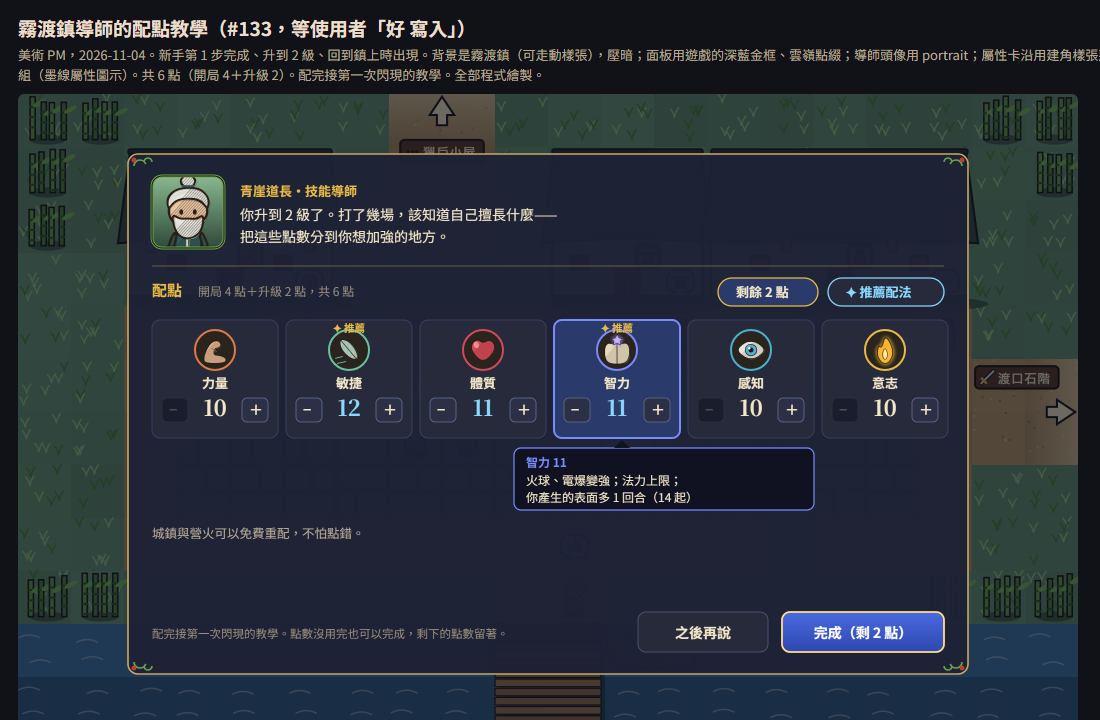
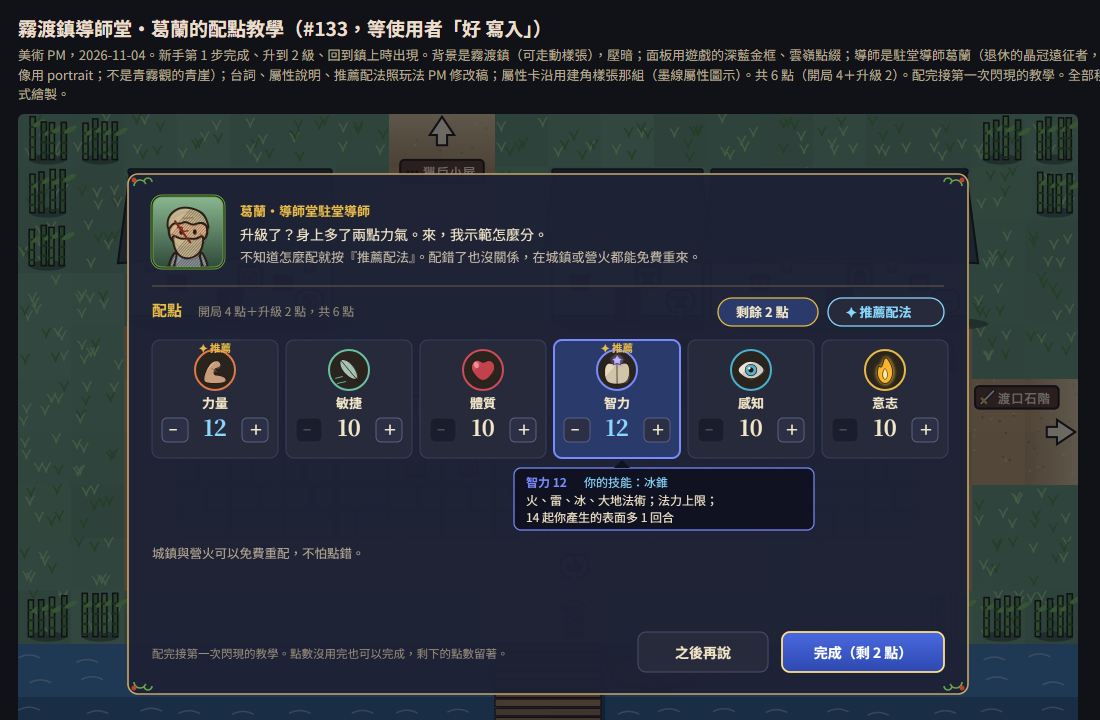
docs(art): mentor tutorial uses resident mentor Gran; final copy

diff --git a/docs/art/sample/mentor-attr.html b/docs/art/sample/mentor-attr.html
@@ -2,8 +2,8 @@
 <html lang="zh-Hant"><head><meta charset="utf-8"><title>導師配點教學</title>
 <style>body{margin:0;padding:14px 18px;background:#101218;color:#eadfcc;font-family:"Noto Sans TC","Microsoft JhengHei",sans-serif;width:1100px}h1{font-size:19px;margin:0 0 4px}.note{color:#b8ab96;font-size:13px;margin:0 0 10px;line-height:1.5}canvas{display:block;border-radius:6px}</style></head>
 <body>
-<h1>霧渡鎮導師的配點教學（#133，等使用者「好 寫入」）</h1>
-<p class="note">美術 PM，2026-11-04。新手第 1 步完成、升到 2 級、回到鎮上時出現。背景是霧渡鎮（可走動樣張），壓暗；面板用遊戲的深藍金框、雲嶺點綴；導師頭像用 portrait；屬性卡沿用建角樣張那組（墨線屬性圖示）。共 6 點（開局 4＋升級 2）。配完接第一次閃現的教學。全部程式繪製。</p>
+<h1>霧渡鎮導師堂・葛蘭的配點教學（#133，等使用者「好 寫入」）</h1>
+<p class="note">美術 PM，2026-11-04。新手第 1 步完成、升到 2 級、回到鎮上時出現。背景是霧渡鎮（可走動樣張），壓暗；面板用遊戲的深藍金框、雲嶺點綴；導師是駐堂導師葛蘭（退休的晶冠遠征者，頭像用 portrait；不是青霧觀的青崖）；台詞、屬性說明、推薦配法照玩法 PM 修改稿；屬性卡沿用建角樣張那組（墨線屬性圖示）。共 6 點（開局 4＋升級 2）。配完接第一次閃現的教學。全部程式繪製。</p>
 <canvas id="c"></canvas>
 <script src="raceArt.js"></script><script src="paperdoll.js"></script><script src="storyDoll.js"></script><script src="portraits.js"></script>
 <script src="realms.js"></script><script src="enemyArt.js"></script><script src="explore.js"></script>
@@ -17,9 +17,10 @@ function cloudC(X,Y,sx,sy){x.save();x.translate(X,Y);x.scale(sx,sy);x.strokeStyl
 function chip(X,Y,w,h,sel,col=GOLD2){x.fillStyle=sel?"#2a3a6a":"#262a3a";x.beginPath();x.roundRect(X,Y,w,h,8);x.fill();x.strokeStyle=sel?col:"#3a4060";x.lineWidth=sel?2:1;x.stroke();}
 const PX=110,PY=60,PW=840,PH=520;x.fillStyle="rgba(30,34,54,0.97)";x.beginPath();x.roundRect(PX,PY,PW,PH,10);x.fill();x.strokeStyle=GOLD;x.lineWidth=1.6;x.stroke();cloudC(PX+2,PY+2,1,1);cloudC(PX+PW-2,PY+2,-1,1);cloudC(PX+2,PY+PH-2,1,-1);cloudC(PX+PW-2,PY+PH-2,-1,-1);
 // 標題列與導師
-const qy=Portraits.N.find(n=>n[0]==="daoist_qingya");Portraits.portrait(x,PX+24,PY+22,72,qy);
-x.fillStyle=GOLD2;x.font=`bold 13px ${FONT}`;x.fillText("青崖道長・技能導師",PX+112,PY+42);x.fillStyle=CREAM;x.font=`14px ${FONT}`;
-x.fillText("你升到 2 級了。打了幾場，該知道自己擅長什麼——",PX+112,PY+66);x.fillText("把這些點數分到你想加強的地方。",PX+112,PY+88);
+// 葛蘭（#133 修改稿，等「好 寫入」）：退休的晶冠遠征者，爽朗實戰派；晶冠風格的舊鎖甲與藍紫披肩，在雲嶺住久了（框色照所在地雲嶺）
+Portraits.portrait(x,PX+24,PY+22,72,["mentor_gran","葛蘭","","cloud_ridge",{skin:"#e8b890",hair:"short",hairColor:"#c8b890",beard:true},{body:{kind:"mail",color:"#9aa4b8",trim:"#8ab0ff"}},["scar","wrinkles"]]);
+x.fillStyle=GOLD2;x.font=`bold 13px ${FONT}`;x.fillText("葛蘭・導師堂駐堂導師",PX+112,PY+42);x.fillStyle=CREAM;x.font=`14px ${FONT}`;
+x.fillText("升級了？身上多了兩點力氣。來，我示範怎麼分。",PX+112,PY+66);x.fillStyle="#c8bca8";x.font=`13px ${FONT}`;x.fillText("不知道怎麼配就按『推薦配法』。配錯了也沒關係，在城鎮或營火都能免費重來。",PX+112,PY+88);
 x.strokeStyle="rgba(200,168,104,0.3)";x.beginPath();x.moveTo(PX+24,PY+112);x.lineTo(PX+PW-24,PY+112);x.stroke();
 // 剩餘與推薦
 x.fillStyle=GOLD2;x.font=`bold 15px ${FONT}`;x.fillText("配點",PX+24,PY+142);x.fillStyle="#9a8e7c";x.font=`12px ${FONT}`;x.fillText("開局 4 點＋升級 2 點，共 6 點",PX+70,PY+142);
@@ -35,7 +36,7 @@ const ATTR = [
     ["wis", "感知", "#4ab0d0", (c) => { ink(c, "eye", [[6, 24], [16, 15], [24, 13], [32, 15], [42, 24], [32, 33], [24, 35], [16, 33]], "#f2f0e8", { w: 0.9 }); ink(c, "iris", ellPts(24, 24, 7, 7, 14), "#4ab0d0", { shade: false, w: 0.7 }); c.fillStyle = "#1c1712"; c.beginPath(); c.arc(24, 24, 3, 0, TAU); c.fill(); c.fillStyle = "#fff"; c.beginPath(); c.arc(22, 22, 1.4, 0, TAU); c.fill(); }],
     ["wil", "意志", "#e8bb48", (c) => { c.save(); c.shadowColor = "#ffd23a"; c.shadowBlur = 8; ink(c, "flame", [[24, 6], [32, 18], [34, 30], [28, 40], [20, 40], [14, 30], [16, 18], [20, 22]], "#ffb030", { shade: false, w: 0.9 }); ink(c, "flame-in", [[24, 20], [28, 30], [24, 37], [20, 30]], "#fff4c0", { shade: false, w: 0.5 }); c.restore(); }],
   ];
-const VAL={str:10,dex:12,con:11,int:11,wis:10,wil:10},REC={dex:1,int:1};
+const VAL={str:12,dex:10,con:10,int:12,wis:10,wil:10},REC={str:1,int:1};
 ATTR.forEach(([id,zh,col,fn],i)=>{const X=PX+24+i*134,Y=PY+166,hov=id==="int";chip(X,Y,126,118,hov,col);
   x.save();x.translate(X+43,Y+10);x.beginPath();x.arc(20,20,20,0,TAU);x.fillStyle="#2a241e";x.fill();x.lineWidth=2;x.strokeStyle=col;x.stroke();x.beginPath();x.arc(20,20,19,0,TAU);x.clip();x.scale(40/48,40/48);fn(x);x.restore();
   x.textAlign="center";x.fillStyle=CREAM;x.font=`bold 13px ${FONT}`;x.fillText(zh,X+63,Y+68);if(REC[id]){x.fillStyle=GOLD2;x.font=`bold 10.5px ${FONT}`;x.fillText("✦ 推薦",X+63,Y+58-46);}
@@ -43,7 +44,7 @@ ATTR.forEach(([id,zh,col,fn],i)=>{const X=PX+24+i*134,Y=PY+166,hov=id==="int";ch
   [["−",X+10,VAL[id]>10],["＋",X+90,true]].forEach(([t,bx,on])=>{x.fillStyle=on?"#2c3046":"#1a1d2c";x.beginPath();x.roundRect(bx,Y+78,26,24,5);x.fill();x.strokeStyle=on?"#5a6080":"#2a2e40";x.lineWidth=1;x.stroke();x.fillStyle=on?CREAM:"#4a4e60";x.font=`bold 14px ${FONT}`;x.fillText(t,bx+7,Y+95);});});
 // 滑過智力的說明
 {const X=PX+24+3*134-40,Y=PY+294;x.fillStyle="rgba(16,18,34,0.98)";x.beginPath();x.roundRect(X,Y,300,62,7);x.fill();x.strokeStyle="#7a8aff";x.lineWidth=1.2;x.stroke();x.beginPath();x.moveTo(X+100,Y);x.lineTo(X+108,Y-8);x.lineTo(X+116,Y);x.fill();
- x.fillStyle="#7a8aff";x.font=`bold 12px ${FONT}`;x.fillText("智力 11",X+12,Y+19);x.fillStyle=CREAM;x.font=`12px ${FONT}`;x.fillText("火球、電爆變強；法力上限；",X+12,Y+37);x.fillText("你產生的表面多 1 回合（14 起）",X+12,Y+54);}
+ x.fillStyle="#7a8aff";x.font=`bold 12px ${FONT}`;x.fillText("智力 12",X+12,Y+19);x.fillStyle="#8ad8ff";x.font=`12px ${FONT}`;x.fillText("你的技能：冰錐",X+70,Y+19);x.fillStyle=CREAM;x.fillText("火、雷、冰、大地法術；法力上限；",X+12,Y+37);x.fillText("14 起你產生的表面多 1 回合",X+12,Y+54);}
 x.fillStyle="#b8ab96";x.font=`12.5px ${FONT}`;x.fillText("城鎮與營火可以免費重配，不怕點錯。",PX+24,PY+384);
 // 按鈕
 x.fillStyle="#262a3a";x.beginPath();x.roundRect(PX+PW-330,PY+PH-62,130,40,8);x.fill();x.strokeStyle="#4a5070";x.lineWidth=1;x.stroke();x.fillStyle=CREAM;x.font=`bold 14px ${FONT}`;x.textAlign="center";x.fillText("之後再說",PX+PW-265,PY+PH-36);

diff --git a/docs/art/sample/create-v2.html b/docs/art/sample/create-v2.html
@@ -93,7 +93,7 @@ const ATTR = [
     ["wis", "感知", "#4ab0d0", (c) => { ink(c, "eye", [[6, 24], [16, 15], [24, 13], [32, 15], [42, 24], [32, 33], [24, 35], [16, 33]], "#f2f0e8", { w: 0.9 }); ink(c, "iris", ellPts(24, 24, 7, 7, 14), "#4ab0d0", { shade: false, w: 0.7 }); c.fillStyle = "#1c1712"; c.beginPath(); c.arc(24, 24, 3, 0, TAU); c.fill(); c.fillStyle = "#fff"; c.beginPath(); c.arc(22, 22, 1.4, 0, TAU); c.fill(); }],
     ["wil", "意志", "#e8bb48", (c) => { c.save(); c.shadowColor = "#ffd23a"; c.shadowBlur = 8; ink(c, "flame", [[24, 6], [32, 18], [34, 30], [28, 40], [20, 40], [14, 30], [16, 18], [20, 22]], "#ffb030", { shade: false, w: 0.9 }); ink(c, "flame-in", [[24, 20], [28, 30], [24, 37], [20, 30]], "#fff4c0", { shade: false, w: 0.5 }); c.restore(); }],
   ];
- const VAL={str:10,dex:12,con:10,int:12,wis:10,wil:10};
+ const VAL={str:12,dex:10,con:10,int:12,wis:10,wil:10}; // 推薦配法：冰錐（智力）、趁勢補刀（力量）不同 → 各 2 點
  x.fillStyle=GOLD2;x.font=`bold 12px ${FONT}`;x.fillText("屬性（自動配好）",40,840);
  ATTR.forEach(([id,zh,col,fn],i)=>{const X=40+(i%3)*98,Y=852+Math.floor(i/3)*40;x.fillStyle=NAVY2;x.beginPath();x.roundRect(X,Y,92,34,6);x.fill();x.strokeStyle="#3a4060";x.lineWidth=1;x.stroke();
    x.save();x.translate(X+5,Y+5);x.beginPath();x.arc(12,12,12,0,TAU);x.fillStyle="#2a241e";x.fill();x.lineWidth=1.5;x.strokeStyle=col;x.stroke();x.beginPath();x.arc(12,12,11,0,TAU);x.clip();x.scale(24/48,24/48);fn(x);x.restore();

diff --git a/docs/art/全遊戲一致性巡檢.md b/docs/art/全遊戲一致性巡檢.md
@@ -105,7 +105,10 @@
 
 樣張：`mentor-attr.png`（`sample/mentor-attr.html`）。新手第 1 步完成、升到 2 級、回到鎮上時出現。
 
-- 背景是當下的地圖壓暗；面板用共用彈窗（深藍金框，RT-1 雲嶺點綴）；導師頭像用 `portrait.ts`，旁邊是導師的兩句話（文案由玩法 PM 定）。
+- 背景是當下的地圖壓暗；面板用共用彈窗（深藍金框，RT-1 雲嶺點綴）。
+- 導師是**導師堂駐堂導師葛蘭**（#133 修改稿，等「好 寫入」；不是青霧觀的青崖）：退休的晶冠遠征者，外觀是晶冠風格的舊鎖甲加藍紫飾邊、短鬍、舊疤，頭像用 `portrait.ts`，框色照所在地雲嶺。台詞照玩法 PM 修改稿第 6 節。
+- 滑過說明的第 1 行是「你的技能：〈吃這個屬性的招名〉」（畫面帶入，沒有就不顯示），第 2 行起照修改稿的屬性說明表。
+- 推薦配法照修改稿：起始兩招屬性相同 4 點全給它，不同各 2 點；升級的 2 點給目前比較低的那個。
 - 6 張屬性卡（同建角那組圖示）：數值、−／＋；右上「剩餘 N 點」（共 6 點：開局 4＋升級 2）與「✦ 推薦配法」（推薦的屬性標「✦ 推薦」）。
 - 滑過顯示影響說明；底下「城鎮與營火可以免費重配，不怕點錯。」
 - 按鈕「之後再說」「完成」；點數沒用完也能完成，剩下的留著。完成後接第一次閃現的教學。
